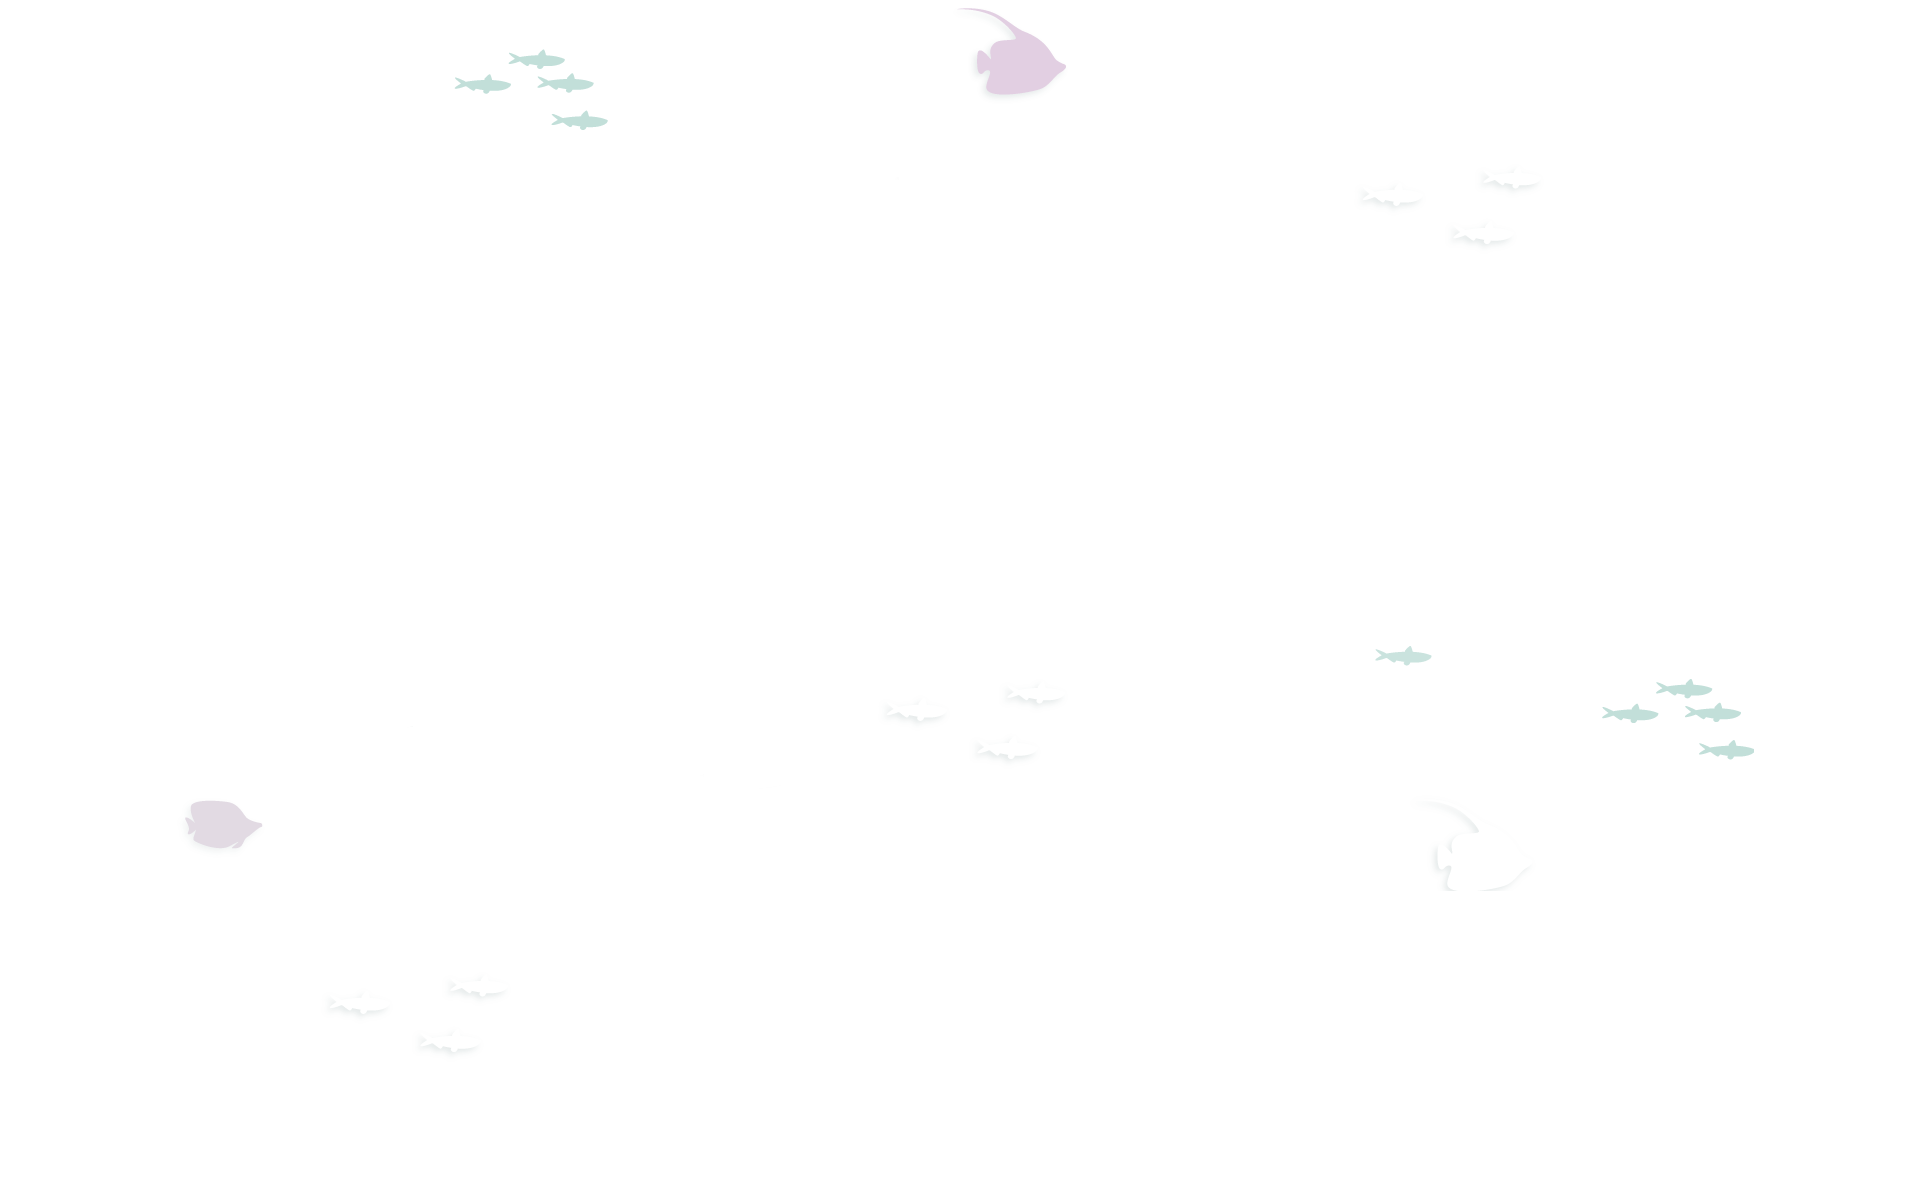
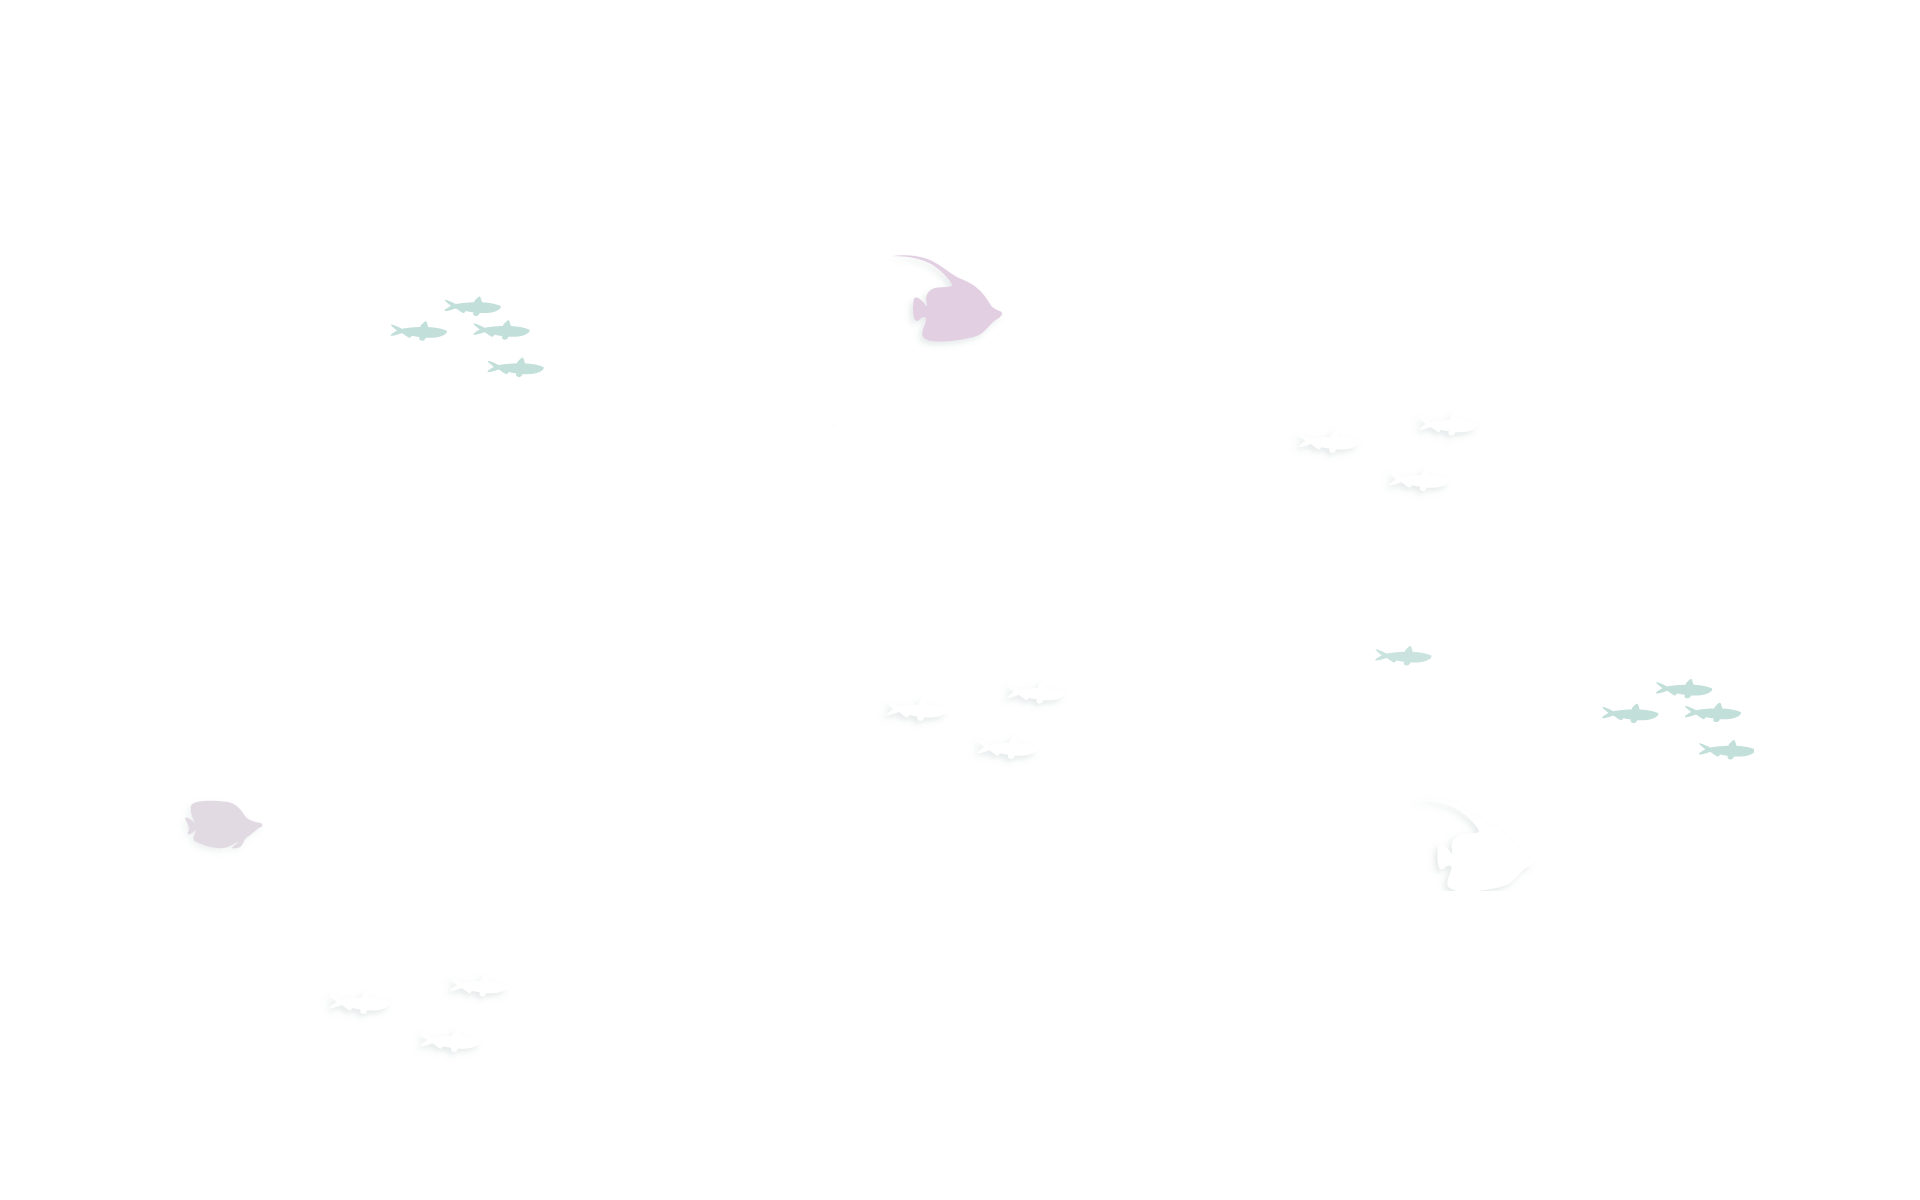
fish and mermaid

diff --git a/new.html b/new.html
@@ -153,6 +153,7 @@ h4.austral {
 }
 .page-background {
 	background: linear-gradient(#b3e8e1, #27b5ae);
+	padding-bottom: 60px;
 }
 .mermaid-background {
 	background: url("mermaid.png") center top no-repeat;
@@ -165,7 +166,6 @@ h1.ultima {
 	margin-top: 0;
 }
 .link-wrapper {
-	font-family: 'Roboto', sans-serif;
 	font-weight: 500;
 	display: flex;
 	flex-wrap: wrap;
@@ -173,8 +173,8 @@ h1.ultima {
 	align-content: center;
 	align-items: center;
 	text-align: center;
-	padding: 20px 0;
-	font-size: 16px;
+	padding: 20px 0 0;
+	font-size: 18px;
 }
 .item-wrapper {
 	display: flex;
@@ -185,11 +185,9 @@ h1.ultima {
 }
 .item.content {
 	width: 700px;
-	padding-bottom: 30px;
+	padding-top: 15px;
 }
 .link, .link:visited, .link:active {
-	font-family: 'Roboto', sans-serif;
-	font-weight: 500;
 	width: 325px;
 	background: rgba(255,255,255,.9);
 	color: #000;
@@ -202,12 +200,35 @@ h1.ultima {
 	text-decoration: none;
 }
 .link:hover {
-	background: rgba(255,255,255,.1);
-	color: #fff;
+	background: rgba(255,255,255,.3);
+	color: #000;
 	text-decoration: none;
 	-webkit-transition-duration: .5s;
 	transition-duration: .5s;
 	box-shadow: 0 0 0px 2px rgba(255,255,255,.6);
+}
+.mermaid-wrapper img {
+}
+.fish-row {
+	background: transparent url("fish.png") center top repeat-x;
+	-webkit-animation: slide 90s linear infinite;
+	animation: slide 90s linear infinite;
+}
+@-webkit-keyframes slide {
+from {
+background-position: 0 0;
+}
+to {
+background-position: 1920px 0;
+}
+}
+@keyframes slide {
+from {
+background-position: 0 0;
+}
+to {
+background-position: 1920px 0;
+}
 }
 
 @media (max-width: 700px) {
@@ -428,10 +449,12 @@ height="0" width="0" style="display:none;visibility:hidden"></iframe>
     <div class="page-background">
       <div class="fish-row">
         <div class="item-wrapper">
-          <div class="item content"><h1 class="quentin">Heading goes here</h1>
-            <div class="link-wrapper fade-in-text"> <a href="summer-reading" class="link">Summer Reading for Earthlings</a> <a href="fete-des-fables/family-fete/" class="link">Family Fête Fundraiser</a> <a href="https://dcl.bibliocommons.com/list/share/692278051/1898512829" class="link">Stargazer’s Guide to Summer Reads</a> <a href="locations/" class="link">New Library Hours!</a></div>
+          <div class="item content">
+            <h1 class="quentin">Heading goes here</h1>
+            <div class="link-wrapper"> <a href="#" class="link">Fairy Tale Ball</a> <a href="#" class="link">Fete des Fables </a> <a href="#" class="link">Sea Reads</a> <a href="#" class="link">Indoor Storytime</a><a href="#" class="link">Birthday Parties</a></div>
           </div>
         </div>
+        <div class="mermaid-wrapper text-center opacity-5"><img class="" src="mermaid.png" alt=""></div>
       </div>
     </div>
   </div>
